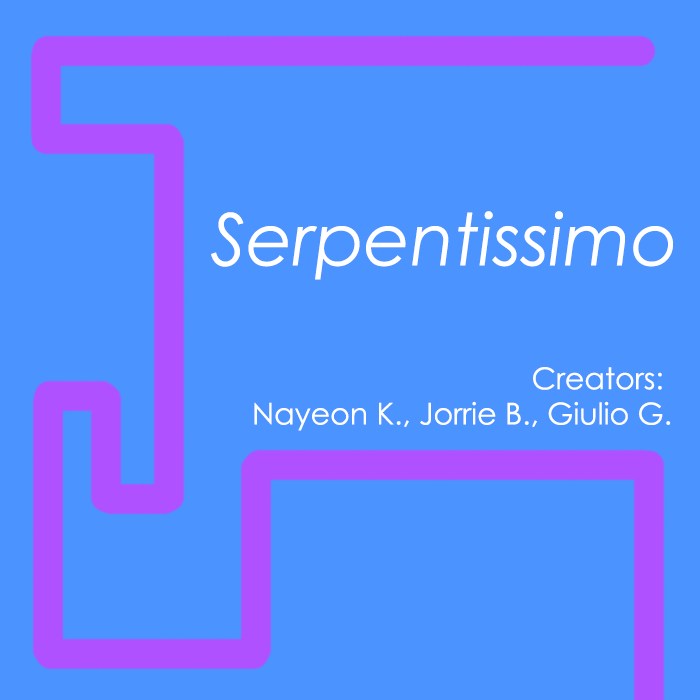
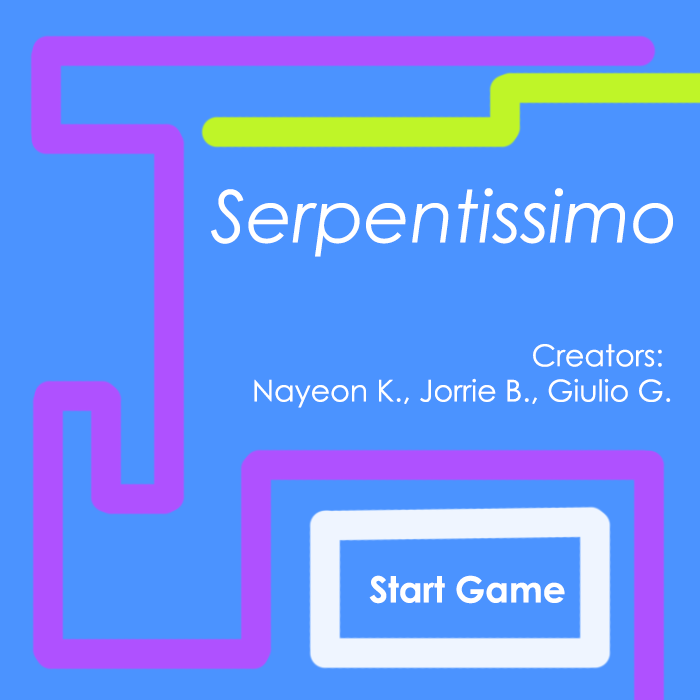
game info disply

diff --git a/index.html b/index.html
@@ -35,19 +35,21 @@
         </ol>  
 
     </div>
-    <div style = "float:left; width:33%; padding:30px">
+    -->
+    <div id='wrapperDiv' style = "padding:100px; width: 1400px">
+      <div id='gameDiv' style = "float:left; width:700px">
+      </div>
+      <div id = 'infoBox' style = "float:right; width:700px; padding-top: 50px; display: none;">
 
-      <center> <font size="6"> Use arrow keys to move your snake. </font> </center>
-      <center> <font size="6"> Get your snake to the blue square. </font> </center>
-      <center> <font size="6"> Press 1 to go back to the previous snake. </font> </center>
-    
-      <center > <font size="10" id = "snakeIndex"> Snake  </font> </center>
-      <center > <font size="10" id = "timeStep"> Time = 0 </font> </center>
-      <center > <font size="10" id = "eventText"> ... </font> </center>
-    
-    </div> -->
-    <div id='gameDiv' style = "padding:100px">
-    </div>
-  <!-- </div> -->
+        <center> <font size="6"> Use arrow keys to move your snake. </font> </center>
+        <center> <font size="6"> Get your snake to the blue square. </font> </center>
+        <center> <font size="6"> Press 1 to go back to the previous snake. </font> </center>
+      
+        <center > <font size="10" id = "snakeIndex"> Snake  </font> </center>
+        <center > <font size="10" id = "timeStep"> Time = 0 </font> </center>
+        <center > <font size="10" id = "eventText"> ... </font> </center>
+      
+      </div> 
+  </div>
 </body>
 </html>

diff --git a/js/draw.js b/js/draw.js
@@ -33,17 +33,17 @@ function drawUpdatedBoard() {
     //     }
 
 function signalEvent(text){
-    // document.getElementById("eventText").innerHTML = text
+    document.getElementById("eventText").innerHTML = text
 }
 
 function signalSnakeIndex(currentIndex, snakesNumbers){
     text = "Snake " + (currentIndex + 1) + "/" + (snakesNumbers)
-    // document.getElementById("snakeIndex").innerHTML = text
+    document.getElementById("snakeIndex").innerHTML = text
 }
 
 function signalTime(timeStep){
     text = "Time = " + timeStep
-    // document.getElementById("timeStep").innerHTML = text
+    document.getElementById("timeStep").innerHTML = text
  }
 
 // }

diff --git a/js/game.js b/js/game.js
@@ -13,11 +13,6 @@ var activeSnake
 var pastSnakes = [] 
 var keyboardLock = false;
 
-// var game = new Phaser.Game(COLS * cellHeight, ROWS * cellWidth, Phaser.CANVAS, null, {
-//         create: create,
-//         render: drawUpdatedBoard
-// });
-
 var snakeData = [{snakeLength:3, startPos:[0, 3], goalPos:[6, 2], heading:DIRECTION_ENUM.RIGHT, snakeColor:'#E5FF00'},
                  {snakeLength:4, startPos:[5, 0], goalPos:[2, 0], heading:DIRECTION_ENUM.LEFT, snakeColor:'#2BFF95'},
 

diff --git a/js/start.js b/js/start.js
@@ -10,5 +10,10 @@ var Start = {
     startGame : function () {
         // Change the state to the actual game.
         game.state.start('Game');
+        showInfo();
     }
 };
+
+function showInfo () {
+  document.getElementById('infoBox').style.display = 'block';
+}
